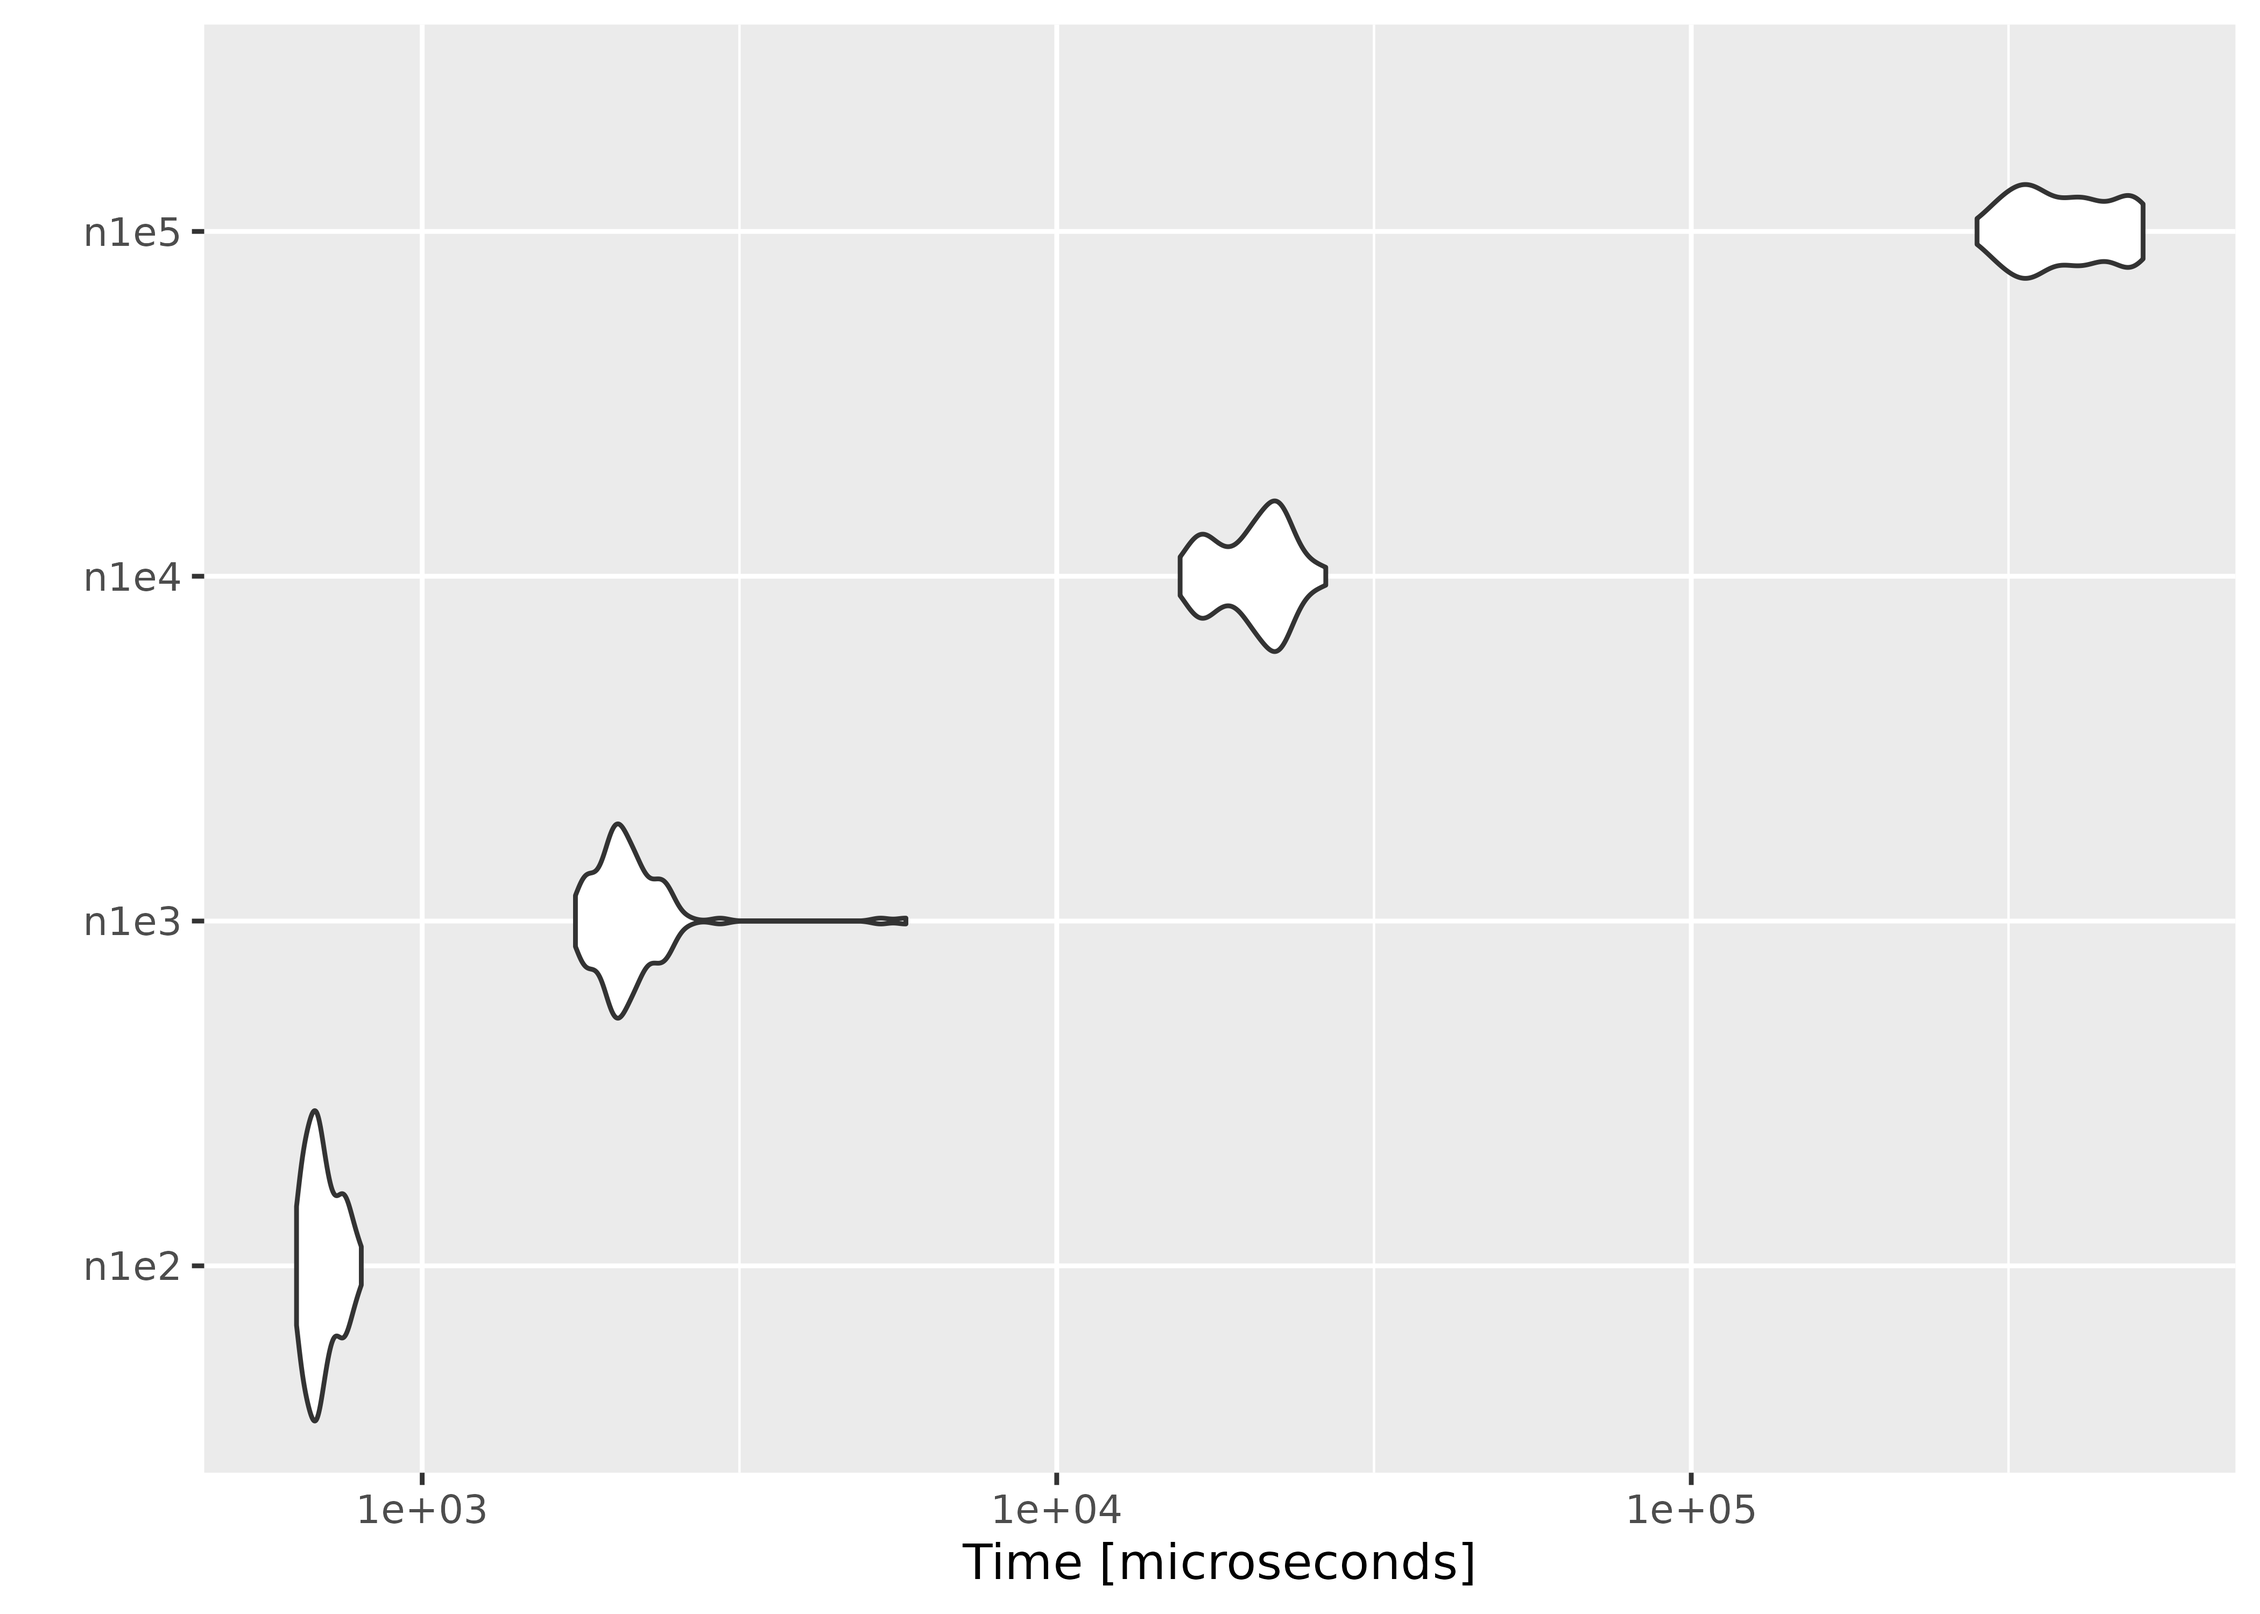
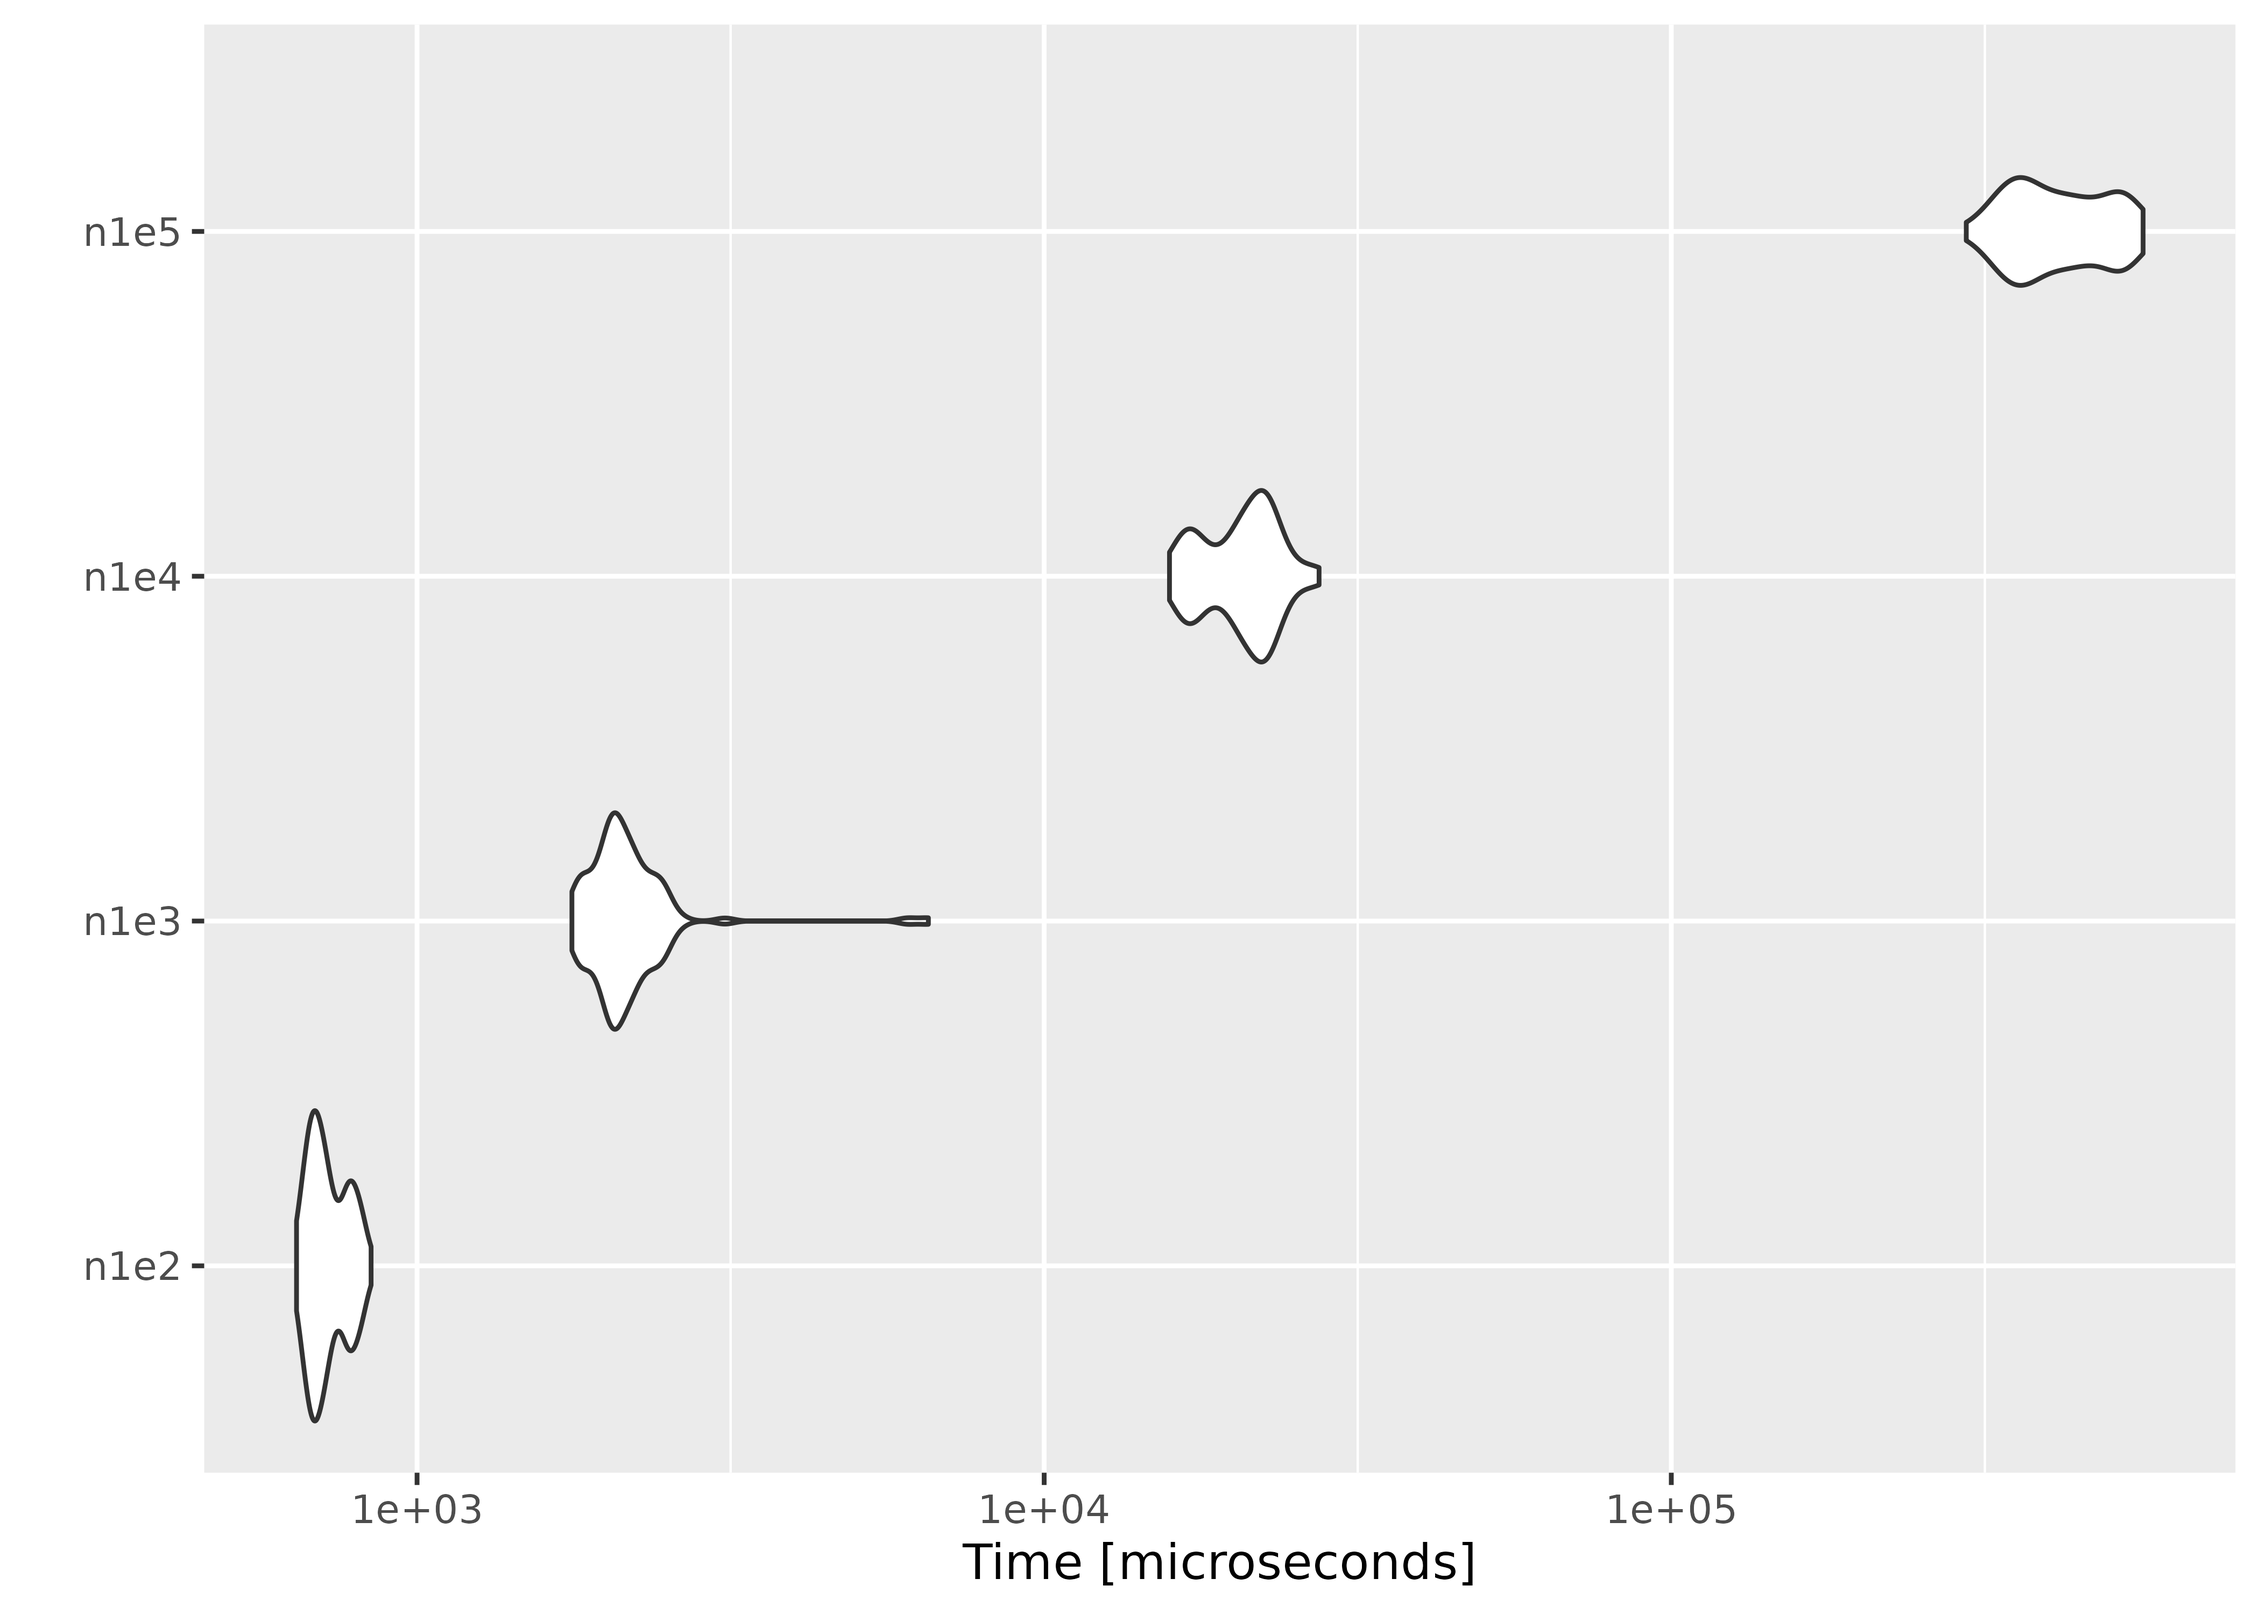
Deploying to gh-pages from @ ropensci/melt@45fc3b6d4d449e775b7f49130058465f4c70dcbf 🚀

diff --git a/articles/performance.html b/articles/performance.html
@@ -137,11 +137,11 @@ parameters increases with the number of observations fixed.</p>
 <div class="sourceCode" id="cb3"><pre class="downlit sourceCode r">
 <code class="sourceCode R"><span><span class="va">result</span></span>
 <span><span class="co">#&gt; Unit: microseconds</span></span>
-<span><span class="co">#&gt;  expr      min        lq       mean    median        uq      max neval</span></span>
-<span><span class="co">#&gt;  n1e2    633.8    664.75    696.710    686.00    728.65    801.7   100</span></span>
-<span><span class="co">#&gt;  n1e3   1743.9   1959.65   2162.192   2060.25   2210.95   5785.6   100</span></span>
-<span><span class="co">#&gt;  n1e4  15648.0  17677.50  20481.677  20635.05  22374.55  26546.7   100</span></span>
-<span><span class="co">#&gt;  n1e5 282074.7 333716.15 392246.538 379197.40 448760.50 515329.9   100</span></span>
+<span><span class="co">#&gt;  expr      min       lq       mean    median        uq      max neval</span></span>
+<span><span class="co">#&gt;  n1e2    642.4    681.0    722.116    706.00    771.65    844.7   100</span></span>
+<span><span class="co">#&gt;  n1e3   1765.8   1993.8   2210.547   2082.95   2267.40   6536.7   100</span></span>
+<span><span class="co">#&gt;  n1e4  15842.8  17786.1  20710.383  21204.25  22601.25  27438.1   100</span></span>
+<span><span class="co">#&gt;  n1e5 295370.3 356379.2 420605.409 407933.35 482286.50 565379.5   100</span></span>
 <span><span class="fu"><a href="https://ggplot2.tidyverse.org/reference/autoplot.html" class="external-link">autoplot</a></span><span class="op">(</span><span class="va">result</span><span class="op">)</span></span></code></pre></div>
 <p><img src="performance_files/figure-html/unnamed-chunk-3-1.png" width="100%" style="display: block; margin: auto;"></p>
 </div>
@@ -174,10 +174,10 @@ likelihood at zero vectors of different sizes.</p>
 <code class="sourceCode R"><span><span class="va">result2</span></span>
 <span><span class="co">#&gt; Unit: milliseconds</span></span>
 <span><span class="co">#&gt;  expr      min        lq       mean    median        uq      max neval</span></span>
-<span><span class="co">#&gt;    p5   1.0376   1.09220   1.238224   1.14845   1.18585   4.6330   100</span></span>
-<span><span class="co">#&gt;   p25   3.9083   3.96490   4.098259   4.01955   4.12000   6.9689   100</span></span>
-<span><span class="co">#&gt;  p100  30.7516  31.03145  36.448989  34.17425  38.03990  60.3492   100</span></span>
-<span><span class="co">#&gt;  p400 350.8326 383.16875 421.620022 387.71875 444.52610 639.8167   100</span></span>
+<span><span class="co">#&gt;    p5   1.0489   1.14205   1.302124   1.18530   1.24795   5.2643   100</span></span>
+<span><span class="co">#&gt;   p25   3.9529   4.00870   4.173971   4.10140   4.20690   7.7538   100</span></span>
+<span><span class="co">#&gt;  p100  30.9149  31.51335  36.851082  34.62705  38.31220  62.2746   100</span></span>
+<span><span class="co">#&gt;  p400 356.4909 389.72505 429.169192 397.05270 453.61310 649.8152   100</span></span>
 <span><span class="fu"><a href="https://ggplot2.tidyverse.org/reference/autoplot.html" class="external-link">autoplot</a></span><span class="op">(</span><span class="va">result2</span><span class="op">)</span></span></code></pre></div>
 <p><img src="performance_files/figure-html/unnamed-chunk-5-1.png" width="100%" style="display: block; margin: auto;">
 On average, evaluating empirical likelihood with a 100000×10 or 1000×400
